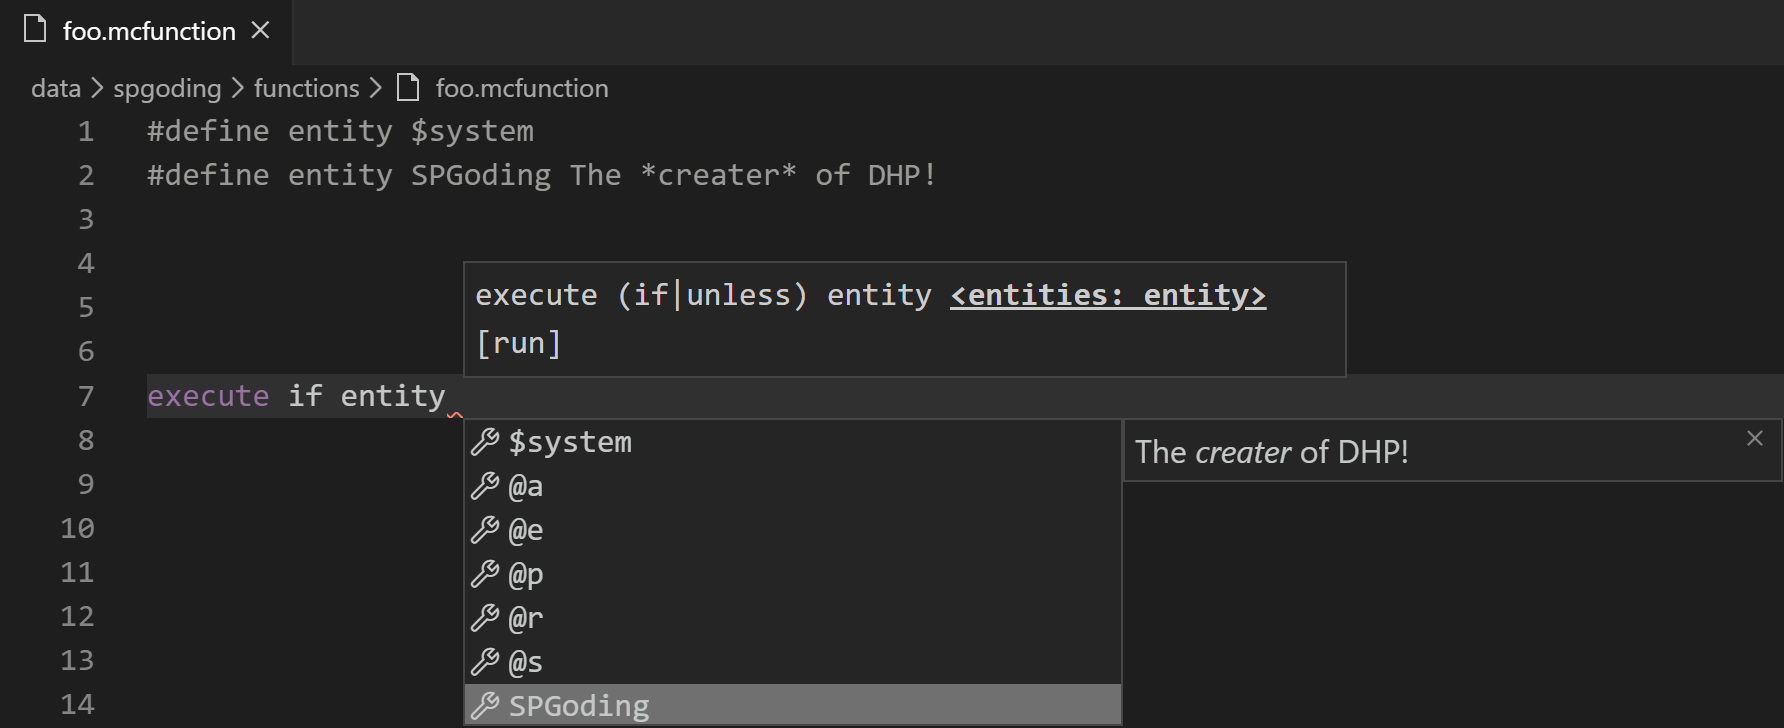
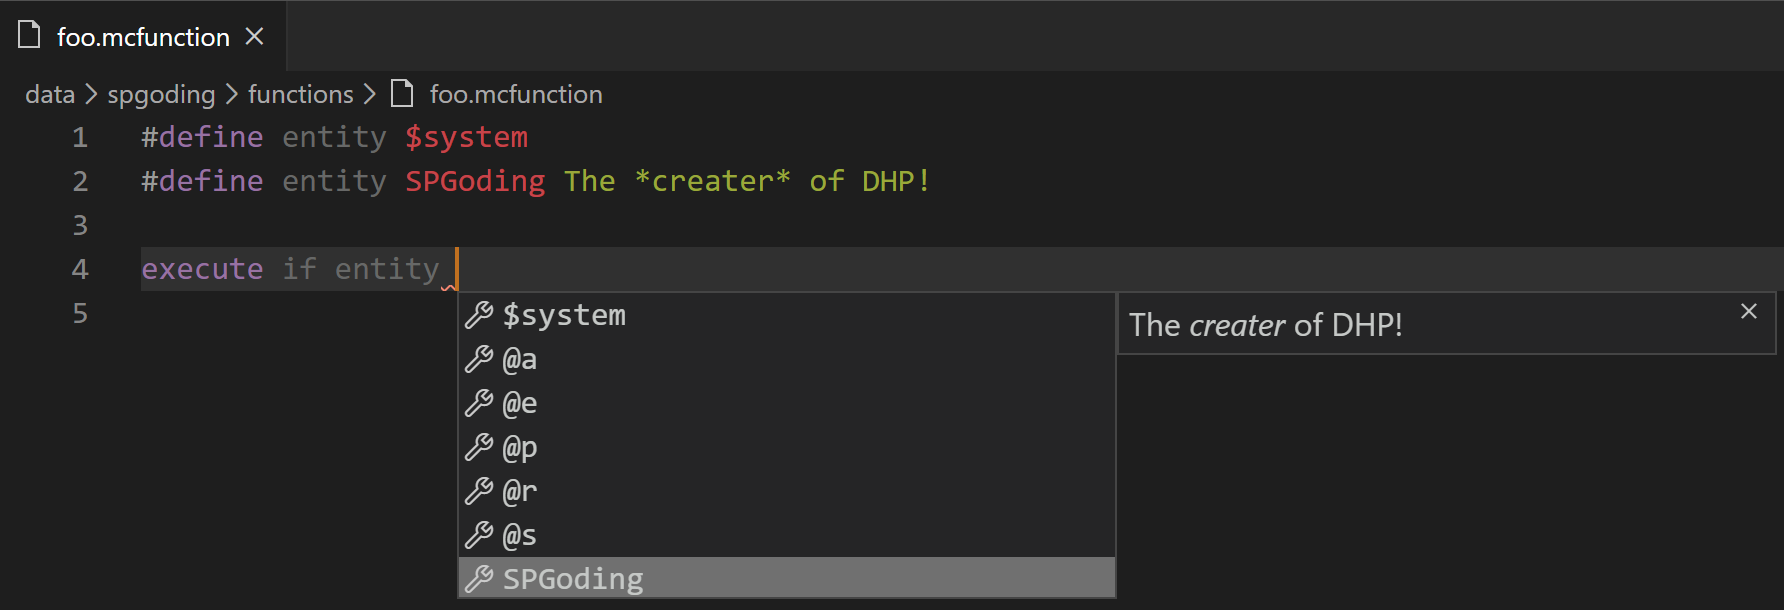
:pencil: Update some screenshots

diff --git a/README.md b/README.md
@@ -16,9 +16,9 @@ Datapack Helper Plus is the spiritual successor of [pca006132](https://github.co
 
 DHP is splitted into two parts: [the JSON part](https://marketplace.visualstudio.com/items?itemName=SPGoding.datapack-json) and [the MCF part](https://marketplace.visualstudio.com/items?itemName=SPGoding.datapack-language-server). While the former provides supports for all JSON files in a datapack (like advancements, recipes, predicates, loot tables, and tags), the latter provides supports for mcfunction files. The introduction you are reading right now is for the MCF part.
 
-| Name | Version | Downloads |
-| - | - | - |
-| [DHP (JSON)](https://github.com/SPGoding/datapack-json) | [![VSCode Marketplace](https://img.shields.io/visual-studio-marketplace/v/SPGoding.datapack-json.svg?logo=visual-studio-code&style=flat-square)](https://marketplace.visualstudio.com/items?itemName=SPGoding.datapack-json) | [![VSCode Marketplace Downloads](https://img.shields.io/visual-studio-marketplace/d/SPGoding.datapack-json.svg?logo=visual-studio-code&style=flat-square)](https://marketplace.visualstudio.com/items?itemName=SPGoding.datapack-json) |
+| Name                                                              | Version                                                                                                                                                                                                                                            | Downloads                                                                                                                                                                                                                                                    |
+| ----------------------------------------------------------------- | -------------------------------------------------------------------------------------------------------------------------------------------------------------------------------------------------------------------------------------------------- | ------------------------------------------------------------------------------------------------------------------------------------------------------------------------------------------------------------------------------------------------------------ |
+| [DHP (JSON)](https://github.com/SPGoding/datapack-json)           | [![VSCode Marketplace](https://img.shields.io/visual-studio-marketplace/v/SPGoding.datapack-json.svg?logo=visual-studio-code&style=flat-square)](https://marketplace.visualstudio.com/items?itemName=SPGoding.datapack-json)                       | [![VSCode Marketplace Downloads](https://img.shields.io/visual-studio-marketplace/d/SPGoding.datapack-json.svg?logo=visual-studio-code&style=flat-square)](https://marketplace.visualstudio.com/items?itemName=SPGoding.datapack-json)                       |
 | [DHP (MCF)](https://github.com/SPGoding/datapack-language-server) | [![VSCode Marketplace](https://img.shields.io/visual-studio-marketplace/v/SPGoding.datapack-language-server.svg?logo=visual-studio-code&style=flat-square)](https://marketplace.visualstudio.com/items?itemName=SPGoding.datapack-language-server) | [![VSCode Marketplace Downloads](https://img.shields.io/visual-studio-marketplace/d/SPGoding.datapack-language-server.svg?logo=visual-studio-code&style=flat-square)](https://marketplace.visualstudio.com/items?itemName=SPGoding.datapack-language-server) |
 
 # Installation
@@ -69,19 +69,17 @@ By acting like this, DHP ensures that the order it handling datapacks is consist
 
 DHP supports multiple languages. Currently these languages are available:
 
-| Language | VSCode Language ID | Contributor |
-| ---- | ---- | ----------- |
-| English | `en` | [SPGoding](https://github.com/SPGoding) |
-| Japanese | `ja` | [ChenCMD](https://github.com/ChenCMD) |
-| Chinese (Simplified) | `zh-cn` | [SPGoding](https://github.com/SPGoding) |
+| Language             | VSCode Language ID | Contributor                             |
+| -------------------- | ------------------ | --------------------------------------- |
+| English              | `en`               | [SPGoding](https://github.com/SPGoding) |
+| Japanese             | `ja`               | [ChenCMD](https://github.com/ChenCMD)   |
+| Chinese (Simplified) | `zh-cn`            | [SPGoding](https://github.com/SPGoding) |
 
 If you'd like to help us translate this project into other languages, it would be really appreciated! See [CONTRIBUTING.md](https://github.com/SPGoding/datapack-language-server/blob/master/CONTRIBUTING.md) for more information!
 
 ## Semantic Highlighting
 
-All command arguments can be colored semantically. You can see #308 for a detailed list of all semantic token types and modifiers used by DHP if you are interested in.
-
-All the screenshots below are taken with both DHP and [Arcensoth](https://github.com/Arcensoth)'s [language-mcfunction](https://marketplace.visualstudio.com/items?itemName=arcensoth.language-mcfunction) extension enabled.
+All command arguments can be colored semantically. You can see [#308](https://github.com/SPGoding/datapack-language-server/issues/308) for a detailed list of all semantic token types and modifiers used by DHP if you are interested in.
 
 ## Signature Information
 
@@ -102,9 +100,6 @@ For more complex NBT tags, with the help from [mc-nbt-paths](https://github.com/
 And also NBT paths:
 ![nbt-path-completions](https://raw.githubusercontent.com/SPGoding/datapack-language-server/master/img/nbt-path-completions.gif)
 
-FOR NBTS IN COMMANDS IN JSON TEXT COMPONENTS IN ITEM TAG NBTS, HANDLING THE ANOYYING ESCAPE AUTOMATICALLY FOR YOU:
-![ohhhh-completions](https://raw.githubusercontent.com/SPGoding/datapack-language-server/master/img/ohhhh-completions.gif)
-
 ## Code Snippets
 
 DHP provides some helpful code snippets. See [VSCode's official docs](https://code.visualstudio.com/docs/editor/userdefinedsnippets) to learn more about code snippets. Both DHP and VSCode allow you to custom your code snippets, and they use exactly the same syntax because DHP is based on VSCode. For mcfunction files, code snippets added by DHP will be shown in the completions list only when the cursor is at the beginning of a command, however snippets added by VSCode's `Code/User/snippets/mcfunction.json` file will be shown everywhere in the file. If you want to custom your code snippets via VSCode, see [their official docs](https://code.visualstudio.com/docs/editor/userdefinedsnippets). If you want to custom snippets via DHP, see the [Configuration Settings section](#Configuration%20Settings).
@@ -113,7 +108,7 @@ DHP provides some helpful code snippets. See [VSCode's official docs](https://co
 
 ## Definition Comments
 
-You can use `#define (bossbar|entity|objective|storage|tag|team) <id: string> [description: string]` to define a bossbar, an entity, an objective, a data storage, an entity tag, or a team. Definition comments will be used to compute completions, rename symbols and find references/definitions. The game will treat definition comments as normal comments and simply ignore them.
+You can use `#define (bossbar|entity|objective|storage|tag|team) <id: string> [<description: string>]` to define a bossbar, an entity, an objective, a data storage, an entity tag, or a team. Definition comments will be used to compute completions, rename symbols and find references/definitions by DHP. The game will treat definition comments as normal comments and simply ignore them.
 
 ![definition-comments](https://raw.githubusercontent.com/SPGoding/datapack-language-server/master/img/definition-comments.png)
 
@@ -125,7 +120,7 @@ DHP provides real-time diagnostics about your commands. It can show syntax error
 
 ## Folding Ranges
 
-You can use comments to create folding ranges, which makes the structure of mcfunction file much clearer. 
+You can use comments (`#region` and `#endregion`) to create folding ranges, which makes the structure of mcfunction file much clearer. 
 
 ```mcfunction
 #region This is a block of commands
@@ -137,7 +132,23 @@ execute if score @s test matches 5 run say 5
 #endregion
 ```
 
-![folding-region](https://raw.githubusercontent.com/SPGoding/datapack-language-server/master/img/folding-region.gif)
+Alternatively, you can use different amount of hash symbols followed by at least one white space to create different levels of folding ranges: 
+
+```mcfunction
+#region This is a block of commands
+# One
+## One - 1
+execute if score @s foo matches 1 run say 1
+execute if score @s foo matches 2 run say 2
+## One - 2
+execute if score @s bar matches 1 run say 1
+execute if score @s bar matches 2 run say 2
+# Two
+execute if score @p test matches 1 run say 1
+#endregion
+```
+
+![folding-ranges](https://raw.githubusercontent.com/SPGoding/datapack-language-server/master/img/folding-ranges.gif)
 
 ## Color Information
 

diff --git a/README-zh_Hans.md b/README-zh_Hans.md
@@ -79,7 +79,7 @@ DHP支持多种语言。目前以下语言已经完全支持：
 
 ## 语义化高亮
 
-不存在的。近阶段请使用 [Arcensoth](https://github.com/Arcensoth) 制作的 [language-mcfunction](https://marketplace.visualstudio.com/items?itemName=arcensoth.language-mcfunction) 插件。下面的截图都是既使用了 Arcensoth 的高亮插件、也使用了我的大憨批来截图的。
+所有命令参数都可以被语义化高亮。如果感兴趣的话，你可以在 [#308](https://github.com/SPGoding/datapack-language-server/issues/308) 查看大憨批使用的所有 Semantic Token Type 与 Semantic Token Modifer。
 
 ## 签名信息
 
@@ -111,7 +111,7 @@ DHP支持多种语言。目前以下语言已经完全支持：
 
 ## 定义注释
 
-你可以使用形如 `#define (bossbar|entity|objective|storage|tag|team) <标识符: string> [描述: string]` 的格式来定义一个实体、数据储存或记分板标签。定义注释中定义的内容将会参与到补全提示的计算、符号的重命名、查找引用或定义等操作当中。Minecraft 本身会把这些定义注释当作普通的注释并直接忽略掉，只有大憨批会读取这些注释。
+你可以使用形如 `#define (bossbar|entity|objective|storage|tag|team) <标识符: string> [<描述: string>]` 的格式来定义一个 bossbar、实体、记分项、数据储存、记分板标签或队伍。定义注释中定义的内容将会参与到补全提示的计算、符号的重命名、查找引用或定义等操作当中。Minecraft 本身会把这些定义注释当作普通的注释并直接忽略掉，只有大憨批会读取这些注释。
 
 ![definition-comments](https://raw.githubusercontent.com/SPGoding/datapack-language-server/master/img/definition-comments.png)
 
@@ -123,7 +123,7 @@ DHP支持多种语言。目前以下语言已经完全支持：
 
 ## 折叠区域
 
-您可以使用注释来定义折叠区域，使得 mcfunction 文件结构更加清晰。
+您可以使用 `#region` 与 `#endregion` 注释来定义折叠区域，使得 mcfunction 文件结构更加清晰。
 
 ```mcfunction
 #region 这是一吨穷举命令，不穷举你会变得更强？
@@ -135,7 +135,23 @@ execute if score @s test matches 5 run say 5
 #endregion
 ```
 
-![folding-region](https://raw.githubusercontent.com/SPGoding/datapack-language-server/master/img/folding-region.gif)
+除此之外，您还可以使用不同个数的井号来创建不同层级的折叠区域（不过井号后面需要有至少一个空格）：
+
+```mcfunction
+#region 这是一吨穷举命令，不穷举你会变得更强？
+# 壹
+## 壹・一
+execute if score @s foo matches 1 run say 1
+execute if score @s foo matches 2 run say 2
+## 壹・二
+execute if score @s bar matches 1 run say 1
+execute if score @s bar matches 2 run say 2
+# 贰
+execute if score @p test matches 1 run say 1
+#endregion
+```
+
+![folding-ranges](https://raw.githubusercontent.com/SPGoding/datapack-language-server/master/img/folding-ranges.gif)
 
 ## 颜色信息
 
